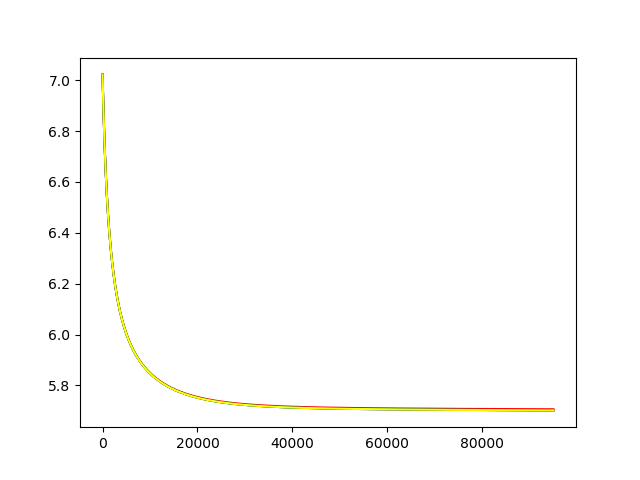
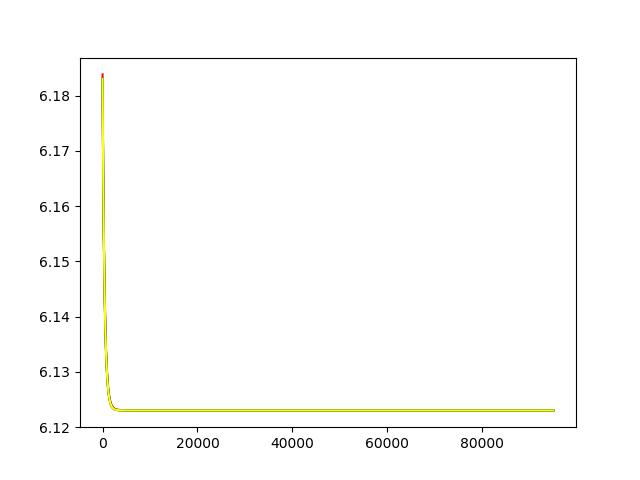
PM 2.5 for regularization

diff --git a/hw1/train.py b/hw1/train.py
@@ -32,7 +32,7 @@ for m in range(12) :
     for h in range(471) :
         x_train.append([])
         # n_f = num of feature
-        for n_f in range(18) :
+        for n_f in range(9,10) :
             # n_e = num of elements
             for n_e in range(9) :
                 x_train[m*471+h].append(data[n_f][480*m+h+n_e])
